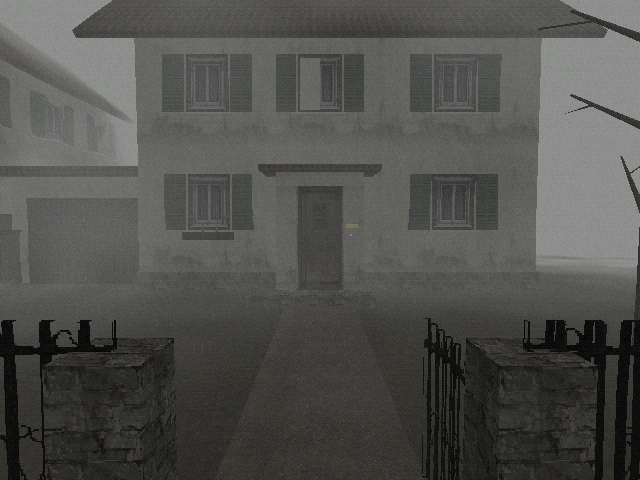
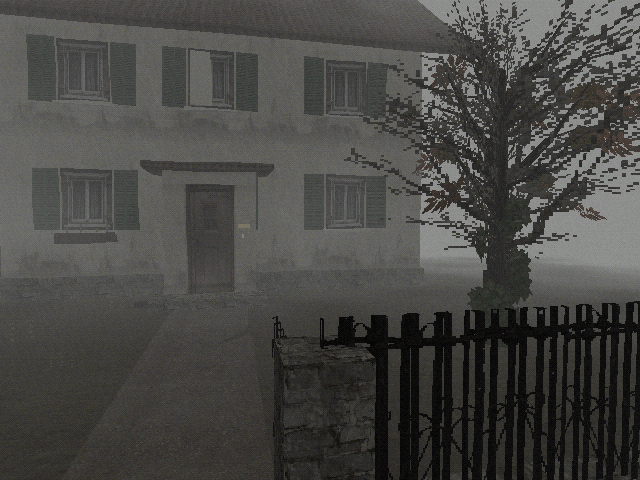
Overgrow the Chassot hedge, plant the farm orchards, and move the Gremaud hedge out of the inn
The Gremaud hedge stood inside the inn's back wall, so it never showed; it now runs between the garden and the inn yard as a beech hedge. Grass tufts and nettles are instanced pictures instead of one sprite each.

diff --git a/src/levels/chassot_farm/index.ts b/src/levels/chassot_farm/index.ts
@@ -1,11 +1,13 @@
 import { dialogues } from '../../content';
 import type { MeshBuilder } from '../../game/kit/builders';
+import { bareTree, ivyCover, thicket, VERGE_PLANTS, WILD_PLANTS } from '../../game/kit/foliage';
 import type { LevelKit } from '../../game/kit/levelKit';
-import { scatter } from '../../game/kit/scatter';
+import { scatter, spotsAlong } from '../../game/kit/scatter';
 import { scareDirector } from '../../game/scares/director';
 import { defineScene, type SceneContext } from '../../game/scene';
 import { everyFrame } from '../church/everyFrame';
 import { isNight, storyPhase } from '../forest_path/story';
+import { billboards } from '../forest_path/woods';
 import { villageAmbience, villageAtmosphere } from '../village_square/atmosphere';
 import { house, palette } from '../village_square/houses';
 import { tractor } from '../village_square/props';
@@ -104,25 +106,49 @@ function overgrowth(kit: LevelKit): void {
     const indoors = Math.abs(x - HOUSE.x) < HOUSE.w / 2 + 0.3 && Math.abs(z - HOUSE.z) < HOUSE.d / 2 + 0.3;
     return alongSide || inFront || garden || indoors || z > 3.8 && x > 6;
   };
+  const nettles = scatter({ x: 2, z: -6, w: 34, d: 34, count: 380, seed: 'chassot-nettles', spacing: 0.75, scale: [0.7, 1.35], avoid: trodden });
   const kinds = [
-    { texture: 'grass_tuft', w: 1.1, h: 0.9, color: 0x7a7c64 },
-    { texture: 'fern_dead', w: 1.1, h: 1.0, color: 0x80785e },
-    { texture: 'grass_tuft', w: 1.3, h: 1.1, color: 0x84806a },
+    { texture: 'grass_tuft', w: 1.1, h: 0.9, color: 0x7a7c64, sink: 0.05 },
+    { texture: 'fern_dead', w: 1.1, h: 1.0, color: 0x80785e, sink: 0.05 },
+    { texture: 'grass_tuft', w: 1.3, h: 1.1, color: 0x84806a, sink: 0.05 },
   ];
-  scatter({ x: 2, z: -6, w: 34, d: 34, count: 380, seed: 'chassot-nettles', spacing: 0.75, scale: [0.7, 1.35], avoid: trodden }).forEach((s, i) => {
-    const kind = kinds[i % kinds.length]!;
-    kit.sprite(kind.texture, { w: kind.w * s.scale!, h: kind.h * s.scale! }).color(kind.color).at(s.x, -0.05, s.z);
-  });
-  kit.trees('bare', [
-    { x: 12, z: -2, scale: 0.65, yaw: 30 },
-    { x: 15, z: -8, scale: 0.6, yaw: 200 },
-    { x: 12.5, z: -14, scale: 0.7 },
-    { x: -10, z: 6, scale: 0.75, yaw: 90 },
-  ]).collider();
+  kinds.forEach((kind, k) => billboards(kit, kind, nettles.filter((_, i) => i % kinds.length === k)));
+  // The old orchard, not pruned since the mother died: bare, mossy, a few brown leaves hanging on.
+  const orchard = (seed: string, ivy = false) => bareTree(seed, { height: 5, crownBase: 1.3, spread: 1.7, leaves: 0.45, ivy });
+  kit
+    .trees([orchard('chassot-a', true), orchard('chassot-b'), orchard('chassot-c')], [
+      { x: 12, z: -2, yaw: 30 },
+      { x: 15, z: -8, scale: 0.9, yaw: 200 },
+      { x: 12.5, z: -14, scale: 1.05 },
+      { x: -10, z: 6, yaw: 90 },
+      { x: 17.5, z: -15.5, scale: 0.85, yaw: 140 },
+    ])
+    .collider()
+    .shade(0.12);
+  wildHedge(kit);
   // The old fence along the road, posts leaning, rails down.
   for (let x = -14; x < 30; x += 2.6) {
     kit.box({ w: 0.1, h: 1.1, d: 0.1 }).texture('bark_spruce', { tile: 0.5 }).color(0x56504a).at(x, -0.1, 3.4).rotY(x * 17).object.rotation.z = Math.sin(x) * 0.18;
   }
+}
+
+/**
+ * The hedge along the road and down the west side, unclipped for years: bramble over it and young
+ * spruce and saplings through it, head high, with dead grass at its foot along the road. Ivy has
+ * the west wall of the house and the corners of the front.
+ */
+function wildHedge(kit: LevelKit): void {
+  const wild = ['a', 'b', 'c'].map((seed) => thicket(`chassot-hedge-${seed}`, { length: 3, depth: 1.6, count: 11, plants: WILD_PLANTS }));
+  kit.trees(wild, spotsAlong([[-15, 2.4], [-1.5, 2.4]], { step: 2.2, seed: 'chassot-road', jitter: 0.35, scale: [0.95, 1.3] }));
+  kit.trees(wild, spotsAlong([[-17, 1], [-17, -24]], { step: 2.3, seed: 'chassot-west', jitter: 0.5, scale: [1, 1.35] }));
+  kit.trees(wild, spotsAlong([[22, 2.6], [31, 2.6]], { step: 2.3, seed: 'chassot-east', jitter: 0.35 }));
+  kit.barrier({ w: 13.5, d: 1.2 }).at(-8.25, 0, 2.4);
+  const verge = ['a', 'b'].map((seed) => thicket(`chassot-verge-${seed}`, { length: 2.2, depth: 0.8, count: 9, plants: VERGE_PLANTS }));
+  kit.trees(verge, spotsAlong([[-15, 3.8], [-1, 3.8]], { step: 1.7, seed: 'chassot-verge', jitter: 0.2 }));
+  kit.trees(verge, spotsAlong([[8, 3.7], [33, 3.7]], { step: 1.7, seed: 'chassot-verge-east', jitter: 0.2 }));
+  const front = HOUSE.z + HOUSE.d / 2 + 0.03;
+  kit.trees(ivyCover('chassot-west-wall', { w: 6.5, h: 4.6 }), [{ x: HOUSE.x - HOUSE.w / 2 - 0.03, z: HOUSE.z - 0.5, yaw: -90 }]);
+  kit.trees(ivyCover('chassot-front', { w: 1.3, h: 3.4 }), [{ x: HOUSE.x - HOUSE.w / 2 + 0.6, z: front, yaw: 0 }, { x: HOUSE.x + HOUSE.w / 2 - 0.55, z: front, yaw: 0 }]);
 }
 
 /** The light in the gaps: a candle carried slowly along the front room, gone when the reporter comes near. */

diff --git a/src/levels/yerly_farm/greenery.ts b/src/levels/yerly_farm/greenery.ts
@@ -1,0 +1,45 @@
+import { bareTree, HEDGE_PLANTS, ivyCover, thicket, VERGE_PLANTS, WILD_PLANTS } from '../../game/kit/foliage';
+import type { LevelKit } from '../../game/kit/levelKit';
+import { spotsAlong } from '../../game/kit/scatter';
+import { FIELD, HENHOUSE, HOUSE } from './layout';
+
+/**
+ * What grows round a working farm in November: the orchard below the yard, bare, with a few
+ * leaves hanging on; two limes by the road; dead grass and bramble under the field fences and
+ * along the road where the mower never reaches; ivy up the back of the house.
+ */
+export function greenery(kit: LevelKit): void {
+  const orchard = (seed: string, ivy = false) => bareTree(seed, { height: 5.4, crownBase: 1.4, spread: 1.6, leaves: 0.35, ivy });
+  kit
+    .trees([orchard('yerly-a'), orchard('yerly-b', true), orchard('yerly-c')], [
+      { x: -12, z: 17, yaw: 20 },
+      { x: -5, z: 18.5, scale: 0.9, yaw: 160 },
+      { x: 2, z: 17.5, yaw: 260 },
+      { x: -8.5, z: 23, scale: 1.05, yaw: 90 },
+      { x: -1.5, z: 23.5, scale: 0.85 },
+      { x: 5.5, z: 22.5, yaw: 300 },
+    ])
+    .collider()
+    .shade(0.12);
+  const lime = (seed: string) => bareTree(seed, { height: 10, crownBase: 3, leaves: 0.15 });
+  kit.trees([lime('yerly-road-a'), lime('yerly-road-b')], [{ x: 30, z: 16, yaw: 40 }, { x: 40, z: 7.5, scale: 0.9 }]).collider();
+
+  const verge = ['a', 'b', 'c'].map((seed) => thicket(`yerly-verge-${seed}`, { length: 2.2, depth: 0.8, count: 9, plants: VERGE_PLANTS }));
+  const lines: [number, number][][] = [
+    [[FIELD.x0, FIELD.z0 - 0.4], [FIELD.x1, FIELD.z0 - 0.4]],
+    [[FIELD.x0, FIELD.z1 + 0.4], [FIELD.x1, FIELD.z1 + 0.4]],
+    [[FIELD.x0, FIELD.z0 + 0.5], [FIELD.x1, FIELD.z0 + 0.5]],
+    [[FIELD.x0, FIELD.z1 - 0.5], [FIELD.x1, FIELD.z1 - 0.5]],
+    // Both sides of the road in from the village.
+    [[24, 9.6], [53, 9.6]],
+    [[24, 14.4], [53, 14.4]],
+  ];
+  kit.trees(verge, lines.flatMap((line, i) => spotsAlong(line, { step: 1.8, seed: `yerly-verge-${i}`, jitter: 0.25, scale: [0.8, 1.25] })));
+  // Bramble got into the fences in places, and a hedge of sorts grows behind the henhouse.
+  const bramble = ['a', 'b'].map((seed) => thicket(`yerly-bramble-${seed}`, { length: 2.4, depth: 1.2, count: 6, plants: WILD_PLANTS }));
+  kit.trees(bramble, [...spotsAlong([[FIELD.x0, FIELD.z0], [FIELD.x1, FIELD.z0]], { step: 11, seed: 'yerly-fence-south', jitter: 0.3 }), ...spotsAlong([[FIELD.x0, FIELD.z1], [FIELD.x1, FIELD.z1]], { step: 13, seed: 'yerly-fence-north', jitter: 0.3 })]);
+  const hedge = ['a', 'b'].map((seed) => thicket(`yerly-hedge-${seed}`, { length: 2.6, depth: 1, count: 9, plants: HEDGE_PLANTS }));
+  kit.trees(hedge, spotsAlong([[HENHOUSE.x - 5, HENHOUSE.z + 4.4], [HENHOUSE.x + 6, HENHOUSE.z + 4.4]], { step: 2.1, seed: 'yerly-hedge', jitter: 0.2 }));
+
+  kit.trees(ivyCover('yerly-house', { w: 3, h: 4.2 }), [{ x: HOUSE.x - HOUSE.w / 2 - 0.03, z: HOUSE.z - 3.4, yaw: -90 }]);
+}

diff --git a/src/levels/house_gremaud/index.ts b/src/levels/house_gremaud/index.ts
@@ -1,7 +1,8 @@
 import { dialogues } from '../../content';
 import type { DialogueScript } from '../../game/dialogue';
+import { bareTree, HEDGE_PLANTS, ivyCover, thicket, VERGE_PLANTS } from '../../game/kit/foliage';
 import type { LevelKit } from '../../game/kit/levelKit';
-import { scatter } from '../../game/kit/scatter';
+import { scatter, spotsAlong } from '../../game/kit/scatter';
 import { defineScene, type SceneContext } from '../../game/scene';
 import { everyFrame } from '../church/everyFrame';
 import { woodCreak } from '../church/sounds';
@@ -72,15 +73,19 @@ function garden(kit: LevelKit): void {
   // The gate leaf stands open against the wall.
   kit.box({ w: 1.1, h: 1.0, d: 0.03 }).texture('iron_fence', { tile: [1.1, 1] }).cutout().doubleSided().color(0x3a3a38).at(GATE.x + 0.65, 0.05, GATE.z - 0.55).rotY(90);
 
-  kit.trees('bare', [{ x: 3.4, z: 8.6, scale: 0.6, yaw: 40 }]).collider();
+  kit.trees(bareTree('gremaud-apple', { height: 4.6, crownBase: 1.3, spread: 1.6, leaves: 0.4, ivy: true }), [{ x: 3.4, z: 8.6, yaw: 40 }]).collider();
   scatter({ x: 0, z: 8, w: 9, d: 6, count: 10, seed: 'gremaud-lawn', spacing: 1.4, scale: [0.5, 0.8], avoid: (x) => Math.abs(x - GATE.x) < 1.2 }).forEach((s) =>
     kit.sprite('grass_tuft', { w: 0.6 * s.scale!, h: 0.35 * s.scale! }).color(0x7e806a).at(s.x, 0, s.z),
   );
-  // A clipped hedge down the left side, between the garden and the inn's yard.
-  scatter({ x: -9.2, z: 3, w: 1.2, d: 18, count: 16, seed: 'gremaud-hedge', spacing: 1, scale: [1, 1.3] }).forEach((s) =>
-    kit.sprite('bush', { w: 1.7 * s.scale!, h: 1.5 * s.scale! }).color(0x5e6452).at(s.x, -0.1, s.z),
-  );
-  kit.barrier({ w: 1, d: 18 }).at(-9.2, 0, 3);
+  // A beech hedge down the left side, between the garden and the inn's yard, its dead leaves kept.
+  const hedge = ['a', 'b', 'c'].map((seed) => thicket(`gremaud-hedge-${seed}`, { length: 2.6, depth: 1.1, count: 11, plants: HEDGE_PLANTS }));
+  kit.trees(hedge, spotsAlong([[-6.3, -6], [-6.3, 11.4]], { step: 2, seed: 'gremaud-hedge', jitter: 0.15, scale: [1.1, 1.3] }));
+  kit.barrier({ w: 1, d: 17.4 }).at(-6.3, 0, 2.7);
+  // Ivy over the garden wall, and dead grass along its foot on the lane side.
+  const ivy = ['a', 'b'].map((seed) => ivyCover(`gremaud-wall-${seed}`, { w: 2.4, h: 0.7 }));
+  kit.trees(ivy, [-6.4, -3.2, 5.6].map((dx) => ({ x: GATE.x + dx, z: GATE.z + 0.2, yaw: 0 })));
+  const verge = ['a', 'b'].map((seed) => thicket(`gremaud-verge-${seed}`, { length: 2, depth: 0.6, count: 8, plants: VERGE_PLANTS }));
+  kit.trees(verge, [-1, 1].flatMap((side) => spotsAlong([[GATE.x + side * 1.2, GATE.z + 0.6], [GATE.x + side * 8.4, GATE.z + 0.6]], { step: 1.6, seed: `gremaud-verge-${side}`, jitter: 0.1 })));
 }
 
 /** The back of the Croix-Blanche: kitchen door, bins, crates of empties, the boy's window upstairs. */

diff --git a/src/levels/yerly_farm/field.ts b/src/levels/yerly_farm/field.ts
@@ -1,7 +1,7 @@
 import type { LevelKit } from '../../game/kit/levelKit';
 import { distanceToTrails } from '../forest_path/trail';
 import { scatter } from '../../game/kit/scatter';
-import { leaningBeeches, lowPlants, mossPatches, rock, spruceWall, tallPlants, trailStrip, undergrowth, woodland } from '../forest_path/woods';
+import { billboards, leaningBeeches, lowPlants, mossPatches, rock, spruceWall, tallPlants, trailStrip, undergrowth, woodland } from '../forest_path/woods';
 import { BOUNDS, FIELD, FOREST_EDGE, forestTrack, GATE, fieldHeight, SHAPE, STUMP } from './layout';
 
 /**
@@ -21,9 +21,8 @@ export function land(kit: LevelKit): void {
     .at(cx, 0, cz)
     .walkable('grass');
   trailStrip(kit, forestTrack, 1.4, fieldHeight);
-  scatter({ x: -30, z: -6, w: 90, d: 50, count: 520, seed: 'yerly-tufts', spacing: 1.2, scale: [0.6, 1.3], avoid: (x, z) => x > -18 && z > -14 && z < 16 }).forEach((s) =>
-    kit.sprite('grass_tuft', { w: 0.85 * s.scale!, h: 0.5 * s.scale! }).color(0x7c7e68).at(s.x, -0.05, s.z).onGround(),
-  );
+  const tufts = scatter({ x: -30, z: -6, w: 90, d: 50, count: 520, seed: 'yerly-tufts', spacing: 1.2, scale: [0.6, 1.3], avoid: (x, z) => x > -18 && z > -14 && z < 16 });
+  billboards(kit, { texture: 'grass_tuft', w: 0.85, h: 0.5, color: 0x7c7e68, sink: 0.05 }, tufts);
 }
 
 /** Post-and-wire fences along both sides of the field, and the gate standing open. */
@@ -90,5 +89,5 @@ export function forestEdge(kit: LevelKit): void {
   kit.trees('bare', [
     { x: -40, z: -19.5, scale: 0.9 },
     { x: -28, z: 6.5, scale: 0.8, yaw: 120 },
-  ]);
+  ]).shade(0.1);
 }

diff --git a/src/levels/yerly_farm/index.ts b/src/levels/yerly_farm/index.ts
@@ -8,6 +8,7 @@ import { nowAndThen, villageAmbience, villageAtmosphere } from '../village_squar
 import { fountainWater } from '../village_square/sounds';
 import { henhouse, toolShed, yard, type Hen } from './farmyard';
 import { fences, forestEdge, land } from './field';
+import { greenery } from './greenery';
 import { BERNARD, BOUNDS, FOREST_EDGE, HENHOUSE, spawns, STALL } from './layout';
 import { marquise } from './marquise';
 import { cluck, moo } from './sounds';
@@ -29,6 +30,7 @@ export const yerlyFarmScene = defineScene({
     land(kit);
     yard(kit, night);
     fences(kit);
+    greenery(kit);
     forestEdge(kit);
     const shovel = toolShed(kit);
     everyFrame(kit, () => (shovel.object.visible = !holds('has_shovel', ctx.state)));
